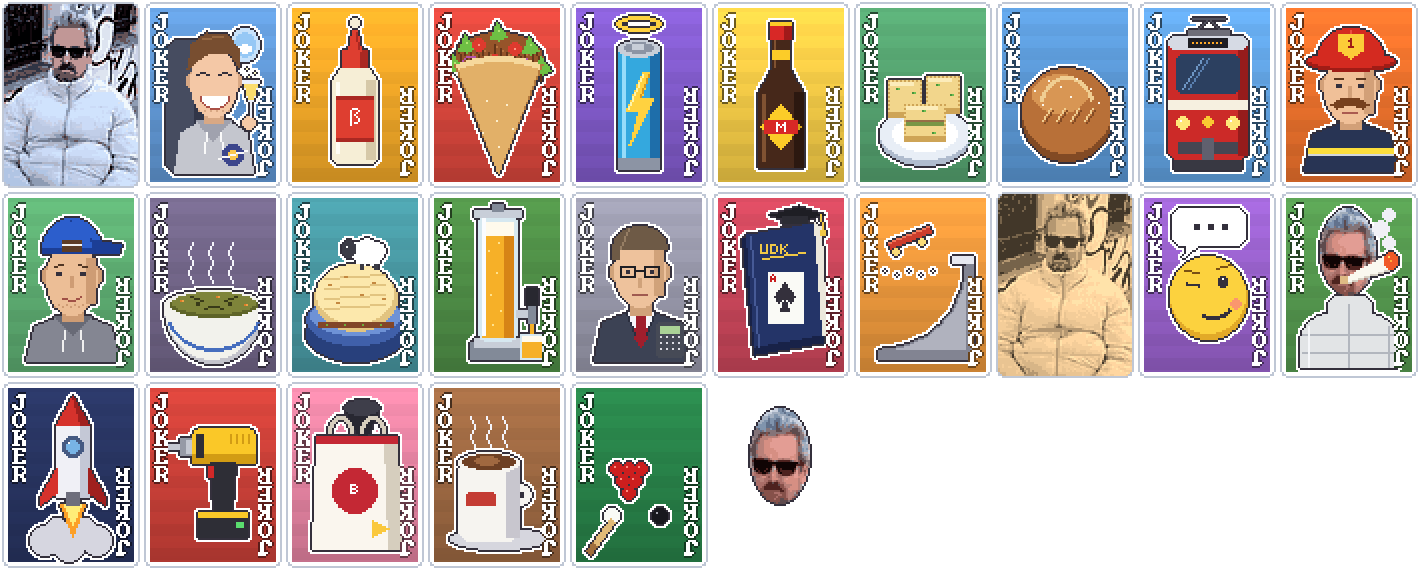
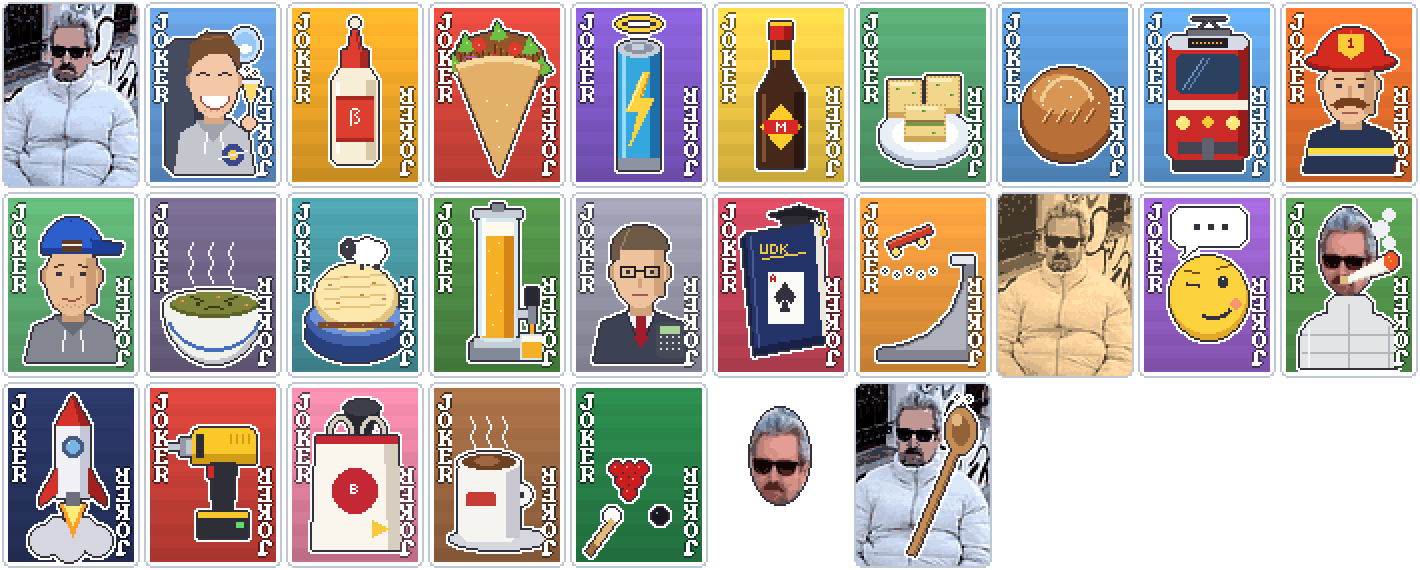
Daunendonnie rework, new Don Appetito, Döner reworked
- Daunendonnie: starts at 0 Chips, permanently +2 Chips per unscored played card,
  Foil only during Boss Blinds (edition locked otherwise)
- Don Appetito (Donnie with Kochlöffel): takes over Döner's old effect
- Döner 'mit alles': +6 Mult per different suit, X1.5 with So(ß)e, 10 bites
- Poster updated

Changed region(s): [[0.5887, 0.6561, 0.7127, 1.0]]

diff --git a/tools/don_appetito_art.py b/tools/don_appetito_art.py
@@ -1,0 +1,38 @@
+"""Don Appetito: the Daunendonnie photo (pixelated, warm tint) holding a hand-drawn Kochlöffel.
+
+Usage: python don_appetito_art.py <pixelated base card png>
+(base = the photo card made like Daunendonnie's, see pixelize step in the session notes)
+Writes don_appetito_1x.png and don_appetito_preview.png into the current directory.
+"""
+import os
+import sys
+from PIL import Image, ImageDraw
+
+sys.path.insert(0, os.path.dirname(os.path.abspath(__file__)))
+from food_art import outline  # noqa: E402
+
+W, H = 71, 95
+
+
+def spoon_layer():
+    layer = Image.new('RGBA', (W, H), (0, 0, 0, 0))
+    d = ImageDraw.Draw(layer)
+    wood, wood_d, wood_h = (196, 140, 86), (146, 98, 56), (226, 182, 128)
+    d.line((30, 86, 52, 34), fill=wood, width=4)                               # handle
+    d.line((31, 86, 53, 34), fill=wood_d, width=1)
+    d.ellipse((47, 14, 61, 36), fill=wood)                                     # spoon bowl
+    d.ellipse((50, 18, 58, 32), fill=wood_d)
+    d.ellipse((50, 17, 54, 22), fill=wood_h)
+    for x, y in ((55, 12), (58, 9), (52, 8)):                                  # steam / sauce drops
+        d.point((x, y), fill=(250, 250, 250))
+    outline(layer)
+    return layer
+
+
+if __name__ == '__main__':
+    card = Image.open(sys.argv[1]).convert('RGBA')
+    frame = card.getchannel('A')
+    card.alpha_composite(spoon_layer())
+    card.putalpha(Image.composite(card.getchannel('A'), frame, frame))         # keep spoon inside the card
+    card.save('don_appetito_1x.png')
+    card.resize((W * 5, H * 5), Image.NEAREST).save('don_appetito_preview.png')

diff --git a/tools/promo.py b/tools/promo.py
@@ -60,10 +60,11 @@ def R(i, soul=None):
 
 
 NEW_JOKERS = [  # sprite, name, rarity, food?, effect
-    (J(0, 0), 'Daunendonnie', 'Uncommon', False, '+100 Chips. Always Foil.'),
+    (J(0, 0), 'Daunendonnie', 'Uncommon', False, 'Gains +2 Chips for every unscored card. Foil during Boss Blinds.'),
     (J(1, 0), 'TrekTrendy', 'Uncommon', False, 'Doubles the sell value of all your cards. Stacks.'),
     (J(2, 0), 'So(ß)e', 'Common', True, '+100 Chips, -5 each round. Spills if another food Joker is held.'),
-    (J(3, 0), 'Döner', 'Uncommon', True, '+10 Mult, +5 for every Donlatro food that ran out. 0 Mult with So(ß)e.'),
+    (J(3, 0), 'Döner', 'Uncommon', True, '+6 Mult per suit in the hand, X1.5 with So(ß)e. 10 bites.'),
+    (J(6, 2), 'Don Appetito', 'Uncommon', True, '+10 Mult, +5 for every Donlatro food that ran out. 0 Mult with So(ß)e.'),
     (J(4, 0), 'HolyEnergy', 'Uncommon', True, 'Gains X0.2 Mult each round. Destroyed when it reaches X2.'),
     (J(5, 0), 'Maggi', 'Uncommon', True, '+5 discards, -1 each round.'),
     (J(6, 0), 'Maultaschen', 'Uncommon', True, '+5 hand size, -1 each round.'),
